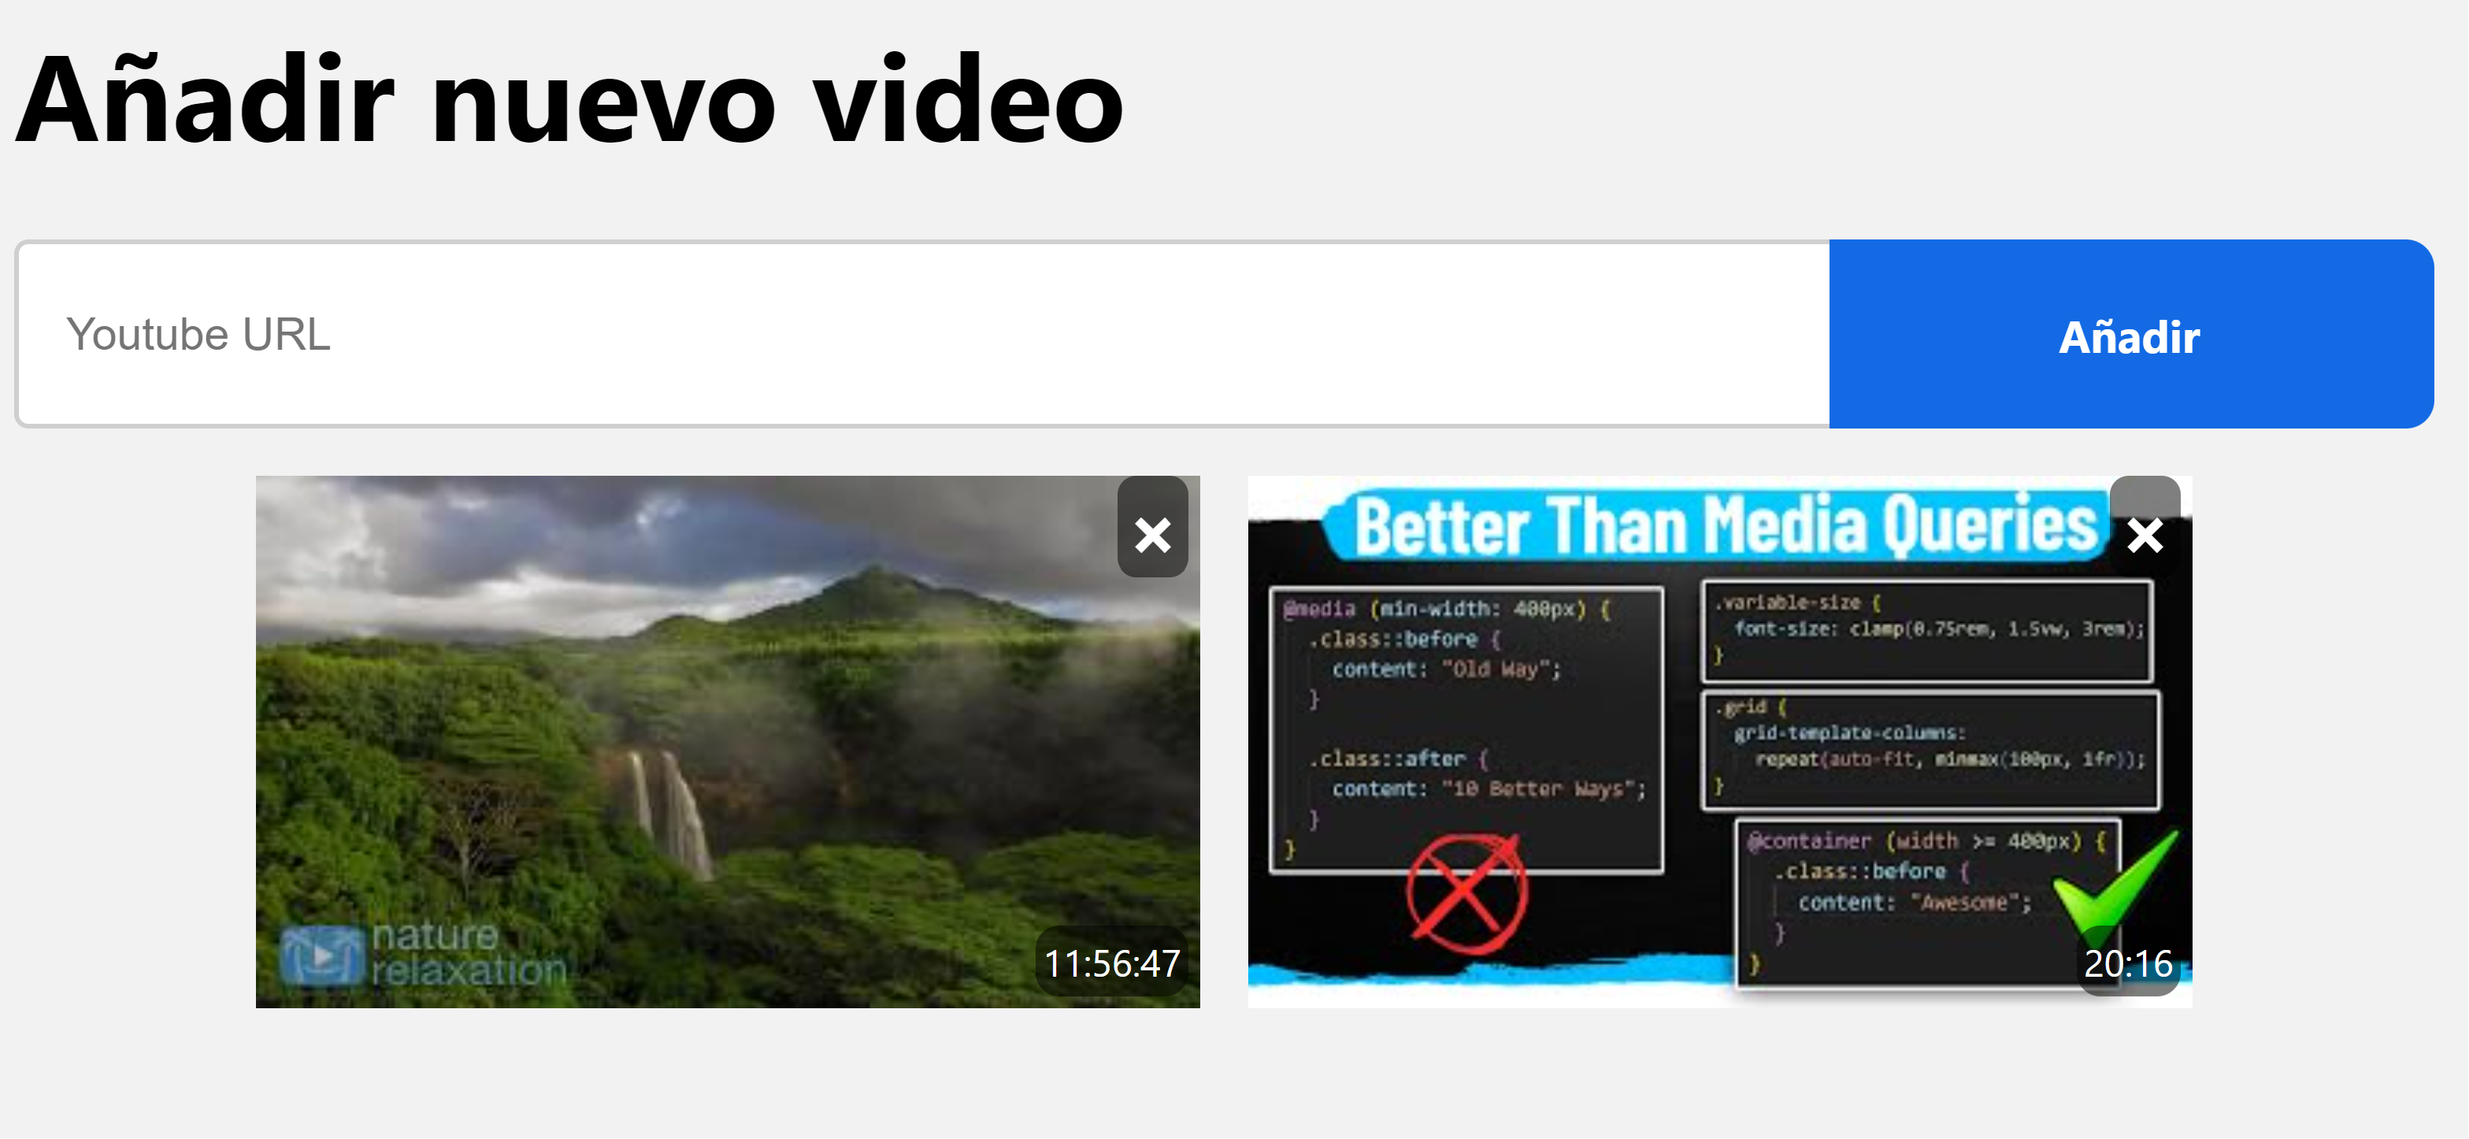
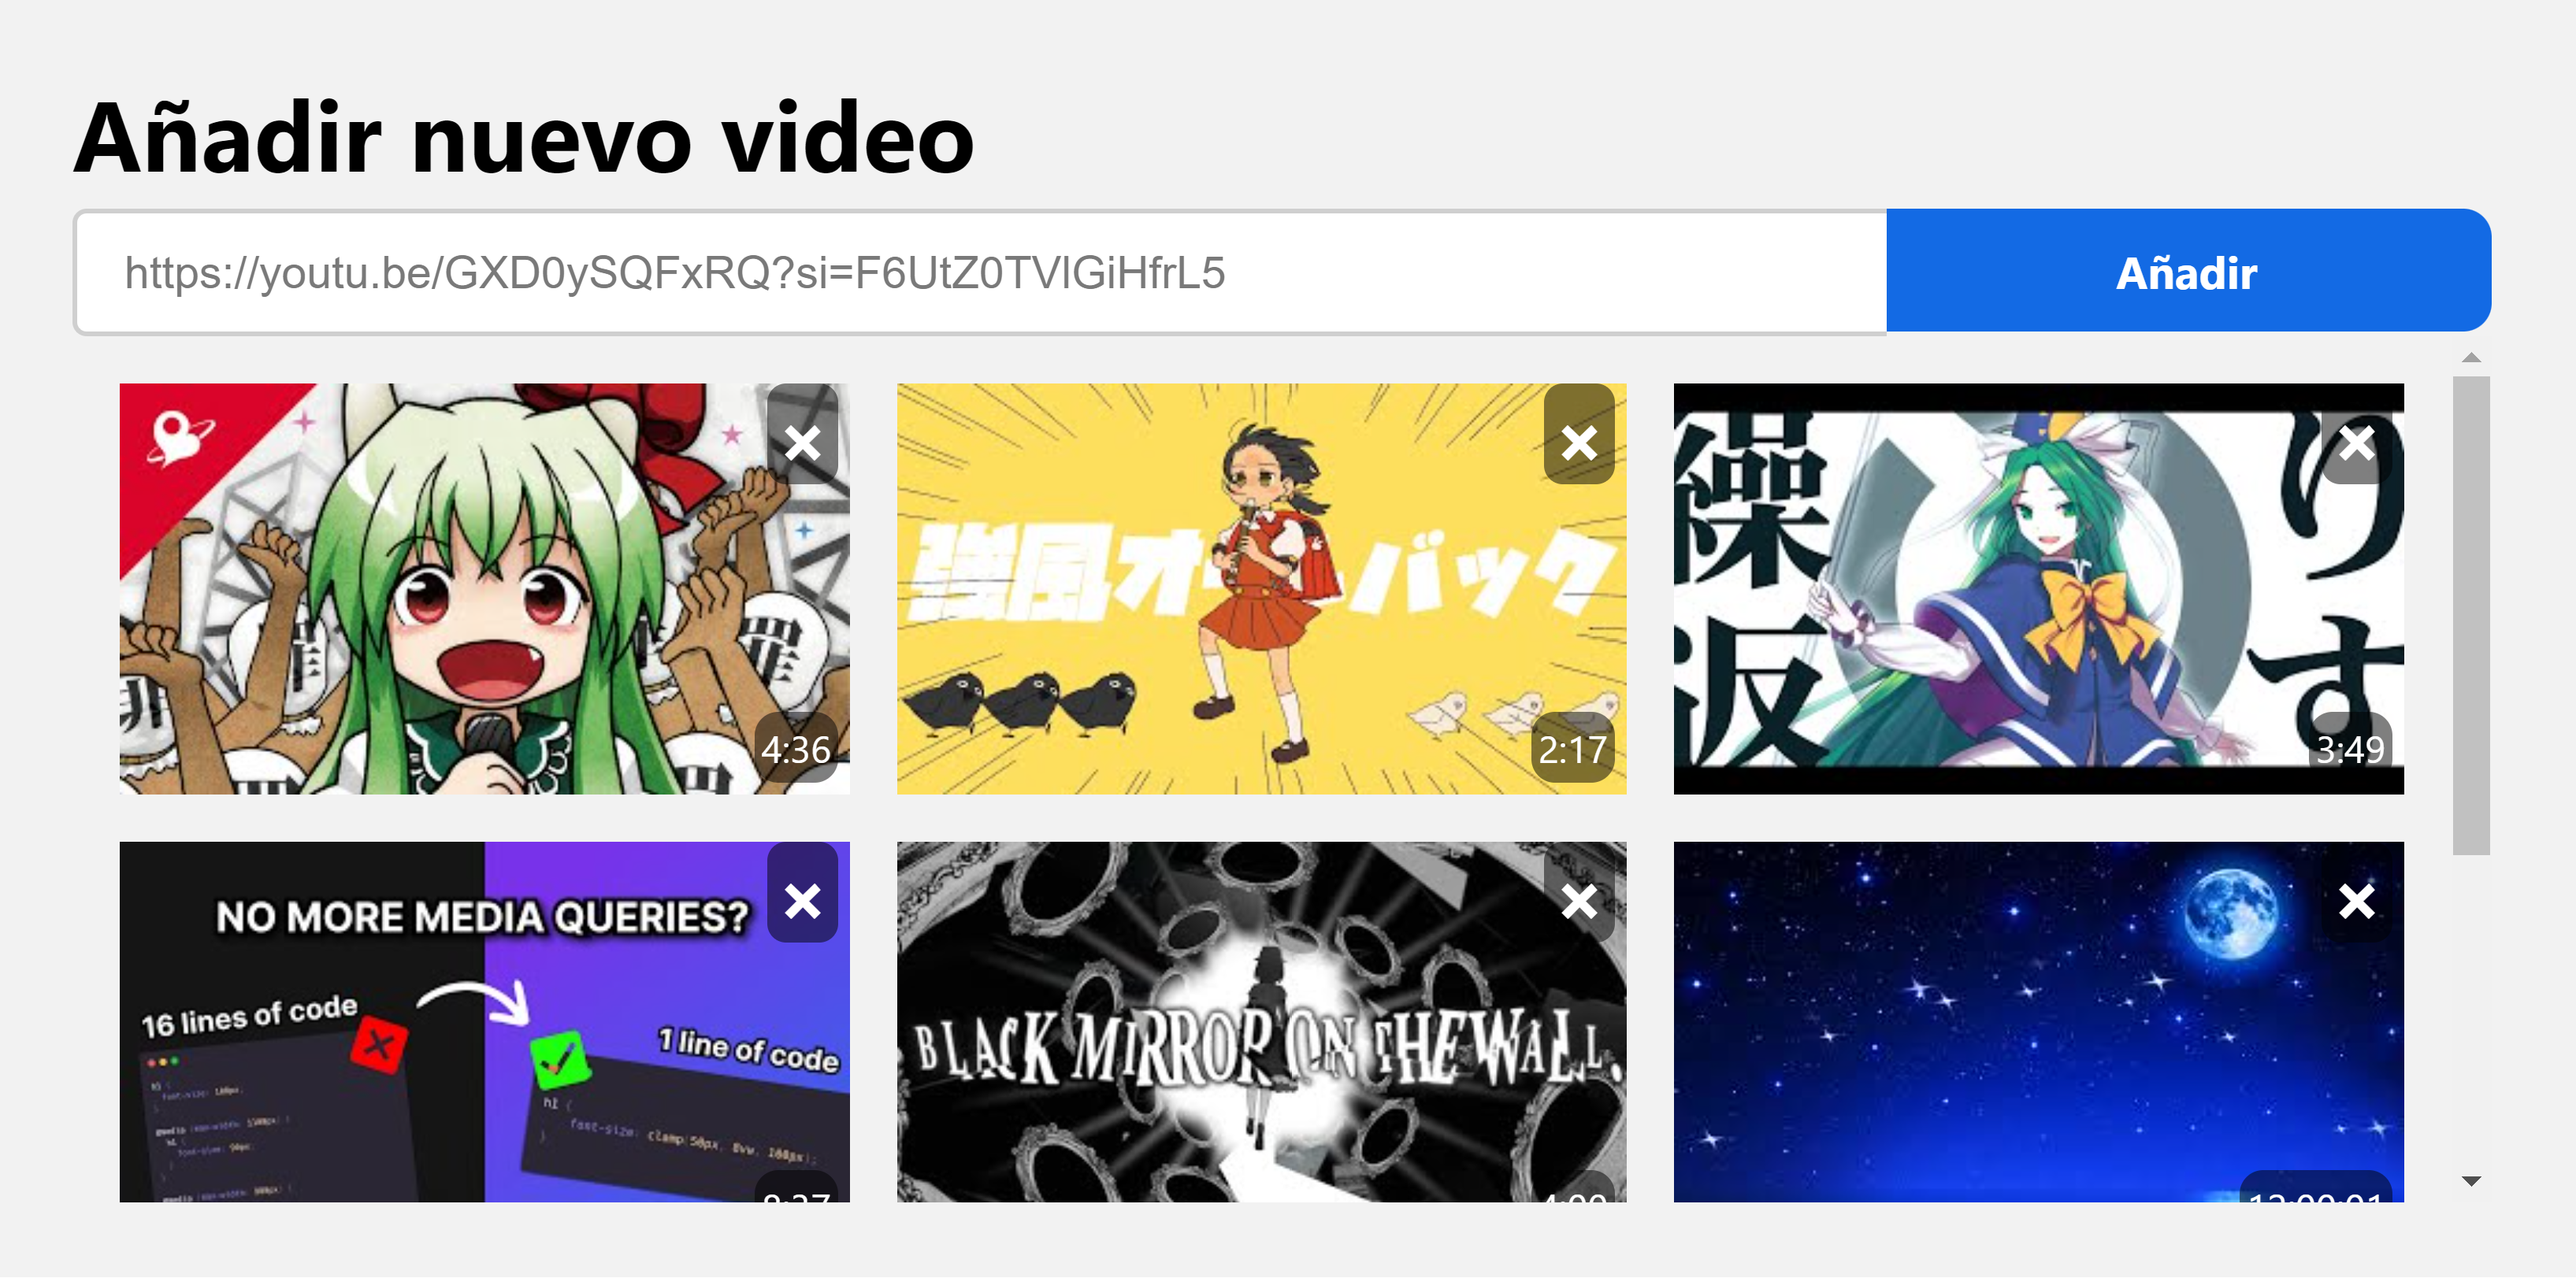
Leves mejoras

diff --git a/src/pages/YoutubeDisplayer/YoutubeDisplayer.css b/src/pages/YoutubeDisplayer/YoutubeDisplayer.css
@@ -36,7 +36,6 @@ h1 {
 
 .text {
   display: flex;
-  height: 80px;
 }
 
 .input {
@@ -83,7 +82,7 @@ h1 {
 /* IMG CONTAINER */
 
 .img-container {
-  padding: 20px 10%;
+  padding: 20px;
   height: 100%;
   overflow-y: auto;
 }

diff --git a/src/index.css b/src/index.css
@@ -53,6 +53,7 @@ p {
 
 h1 {
   font-size: var(--fs-xl);
+  margin: 0px 0px 10px 0px;
   line-height: 1.1;
 }
 
